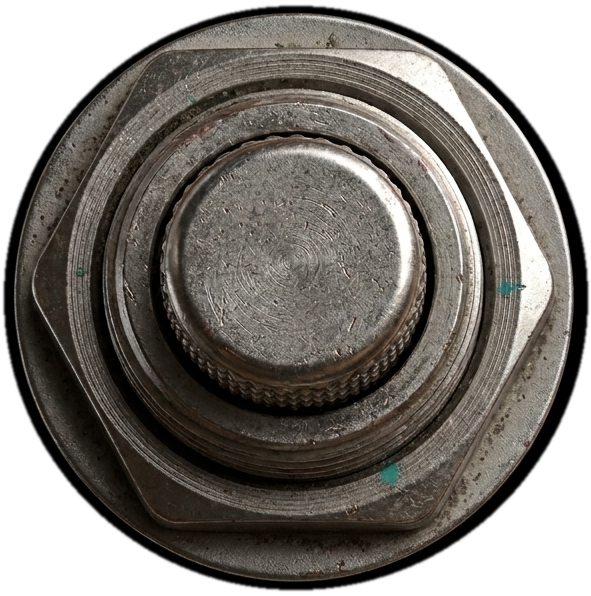
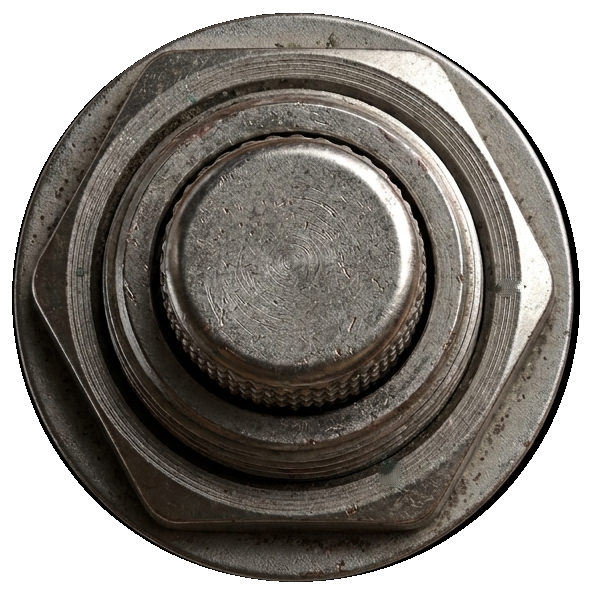
Seat switches and nameplate into the plate for a 3D read
Gate toggle: anchor the PRE/POST frames by the hex nut instead of a
centred blit, so the fixed body no longer hops ~9px when toggled — only
the lever swings. Add a nut-footprint contact shadow.

Footswitch: register the up/down frames by the collar marks (measured,
then painted out of the art) so the base stays pinned and only the cap
travels. Remove the leftover dark matte fringe baked into the metal and
drop the cast shadow entirely — both read as an unrealistic black ring
on the plate; the cap seats on its own bevelled edge.

Logo: replace the tightly-cropped nameplate with the full plaque
including its chrome rim (background keyed out), and size the layout box
to its true aspect so the raised metal edge shows.

diff --git a/source/ui/PedalFaceplatePaint.cpp b/source/ui/PedalFaceplatePaint.cpp
@@ -41,6 +41,17 @@ const PedalArtwork& artwork()
 const auto kInk = juce::Colour (0xff161413);
 const auto kOrange = juce::Colour (0xffe66c0b);
 
+// Registration marks (teal dots, since painted out of the art) sat on the
+// footswitch's fixed collar. Measured centroids in source-image pixels...
+const juce::Point<float> kFootUpDotA   { 397.2f, 473.9f };
+const juce::Point<float> kFootUpDotB   { 512.6f, 288.5f };
+const juce::Point<float> kFootDownDotA { 389.9f, 474.1f };
+const juce::Point<float> kFootDownDotB { 508.0f, 287.1f };
+// ...both aligned onto these fixed plate targets (editor coords), so the collar
+// is pinned and only the cap moves between raised and stomped.
+const juce::Point<float> kFootTargetA  { 234.4f, 660.9f };
+const juce::Point<float> kFootTargetB  { 262.4f, 616.0f };
+
 void drawImage (juce::Graphics& g, const juce::Image& image, juce::Rectangle<float> bounds,
                 juce::RectanglePlacement placement = juce::RectanglePlacement::centred)
 {
@@ -51,6 +62,50 @@ void drawImage (juce::Graphics& g, const juce::Image& image, juce::Rectangle<flo
     g.setOpacity (1.0f);
     g.setImageResamplingQuality (juce::Graphics::highResamplingQuality);
     g.drawImage (image, bounds, placement, false);
+}
+
+// Some parts are photographed in two states whose frames differ in size (a toggle
+// lever swings past the edge, so PRE and POST crop to different heights). A plain
+// centred blit then lands the fixed body in a different spot each state and the
+// part appears to hop. Instead, register both frames by a landmark on the *fixed*
+// body — the hex nut — so it stays pinned and only the moving part travels.
+// nutNorm is the nut centre as a fraction of the frame; nutWidthPx is its pixel
+// width, so both states share one on-screen scale.
+void drawNutAnchoredImage (juce::Graphics& g, const juce::Image& image,
+                           float nutNormX, float nutNormY, float nutWidthPx,
+                           juce::Point<float> targetNutCentre, float targetNutWidth)
+{
+    if (! image.isValid())
+        return;
+
+    const auto scale = targetNutWidth / nutWidthPx;
+    const auto w = static_cast<float> (image.getWidth())  * scale;
+    const auto h = static_cast<float> (image.getHeight()) * scale;
+    const juce::Rectangle<float> dest (targetNutCentre.x - nutNormX * w,
+                                       targetNutCentre.y - nutNormY * h,
+                                       w, h);
+
+    g.setOpacity (1.0f);
+    g.setImageResamplingQuality (juce::Graphics::highResamplingQuality);
+    g.drawImage (image, dest, juce::RectanglePlacement::stretchToFit, false);
+}
+
+// Two-point similarity registration: map a pair of landmarks (in source-image
+// pixels) onto fixed plate targets, correcting for the small translation, scale,
+// and rotation drift between two frames photographed apart. Used for the
+// footswitch, whose up/down shots were misaligned a few pixels at the collar.
+juce::AffineTransform registerByTwoPoints (juce::Point<float> s1, juce::Point<float> s2,
+                                           juce::Point<float> t1, juce::Point<float> t2)
+{
+    const auto s = s2 - s1;
+    const auto t = t2 - t1;
+    const auto scale = t.getDistanceFromOrigin() / s.getDistanceFromOrigin();
+    const auto angle = std::atan2 (t.y, t.x) - std::atan2 (s.y, s.x);
+
+    return juce::AffineTransform::translation (-s1.x, -s1.y)
+        .scaled (scale)
+        .rotated (angle)
+        .translated (t1.x, t1.y);
 }
 
 // The scene photograph keeps the pedal small inside a moody workbench shot. Crop the
@@ -208,40 +263,15 @@ void drawContactShadows (juce::Graphics& g)
     addRoundedShadow (g, kClipLens.toFloat().reduced (2.0f), 8.0f, 0.32f, 4, { 1, 3 });
     addRoundedShadow (g, kDarkButton.toFloat().reduced (5.0f), 16.0f, 0.36f, 8, lightOffset);
 
-    // The toggle's weight sits in its hex nut, low in the switch rect.
+    // The toggle's weight sits in its hex nut. Ground it with a contact shadow the
+    // size of the nut footprint, centred on the fixed nut position (see the
+    // nut-anchored draw) so the switch reads as seated in the plate, not floating.
     addEllipseShadow (g,
-                      { kGateSwitch.toFloat().getCentreX() - 25.0f,
-                        kGateSwitch.toFloat().getY() + 24.0f, 50.0f, 36.0f },
-                      0.34f, 7, lightOffset);
+                      { kGateSwitch.toFloat().getCentreX() - 26.0f, 470.0f - 22.0f,
+                        52.0f, 48.0f },
+                      0.38f, 8, lightOffset);
 
     // Footswitch shadow is dynamic (it tightens when stomped) — drawn per frame.
-}
-
-constexpr int kFootShadowMargin = 28;
-
-// Pre-render both footswitch shadows: raised (tall, soft) and stomped (tight,
-// hugging the plate). The per-frame paint just swaps the blit.
-const juce::Image& footShadowImage (bool pressed)
-{
-    static const auto render = [] (float alpha, int radius, juce::Point<int> offset)
-    {
-        constexpr int margin = kFootShadowMargin;
-        const auto foot = facelayout::kFootswitch;
-        juce::Image image (juce::Image::ARGB,
-                           foot.getWidth() + margin * 2, foot.getHeight() + margin * 2, true);
-        juce::Graphics g (image);
-        addEllipseShadow (g,
-                          juce::Rectangle<float> (static_cast<float> (margin), static_cast<float> (margin),
-                                                  static_cast<float> (foot.getWidth()),
-                                                  static_cast<float> (foot.getHeight()))
-                              .reduced (8.0f),
-                          alpha, radius, offset);
-        return image;
-    };
-
-    static const juce::Image raised = render (0.44f, 12, { 3, 8 });
-    static const juce::Image stomped = render (0.52f, 6, { 1, 3 });
-    return pressed ? stomped : raised;
 }
 
 constexpr int kDrawerShadowMargin = 26;
@@ -424,16 +454,29 @@ void paintPedalFaceplate (juce::Graphics& g,
         padPressed, padDisplayAmount, sendAmount);
 
     drawImage (g, dark ? art.darkOn : art.darkOff, kDarkButton.toFloat());
-    drawImage (g, postGate ? art.gatePost : art.gatePre, kGateSwitch.toFloat());
 
-    // Stomping seats the switch closer to the plate: its shadow tightens and the
-    // cap drops a couple of pixels.
+    // PRE (lever up) and POST (lever down) are the same switch; their frames differ
+    // in height only because the lever leaves the crop. Anchor by the hex nut —
+    // measured centre and pixel width per frame — so the body stays fixed on the
+    // plate and only the lever swings. (A centred blit used to hop the nut ~9px.)
+    const juce::Point<float> gateNutCentre { kGateSwitch.toFloat().getCentreX(), 470.0f };
+    constexpr float gateNutWidth = 50.0f;
+    if (postGate)
+        drawNutAnchoredImage (g, art.gatePost, 0.500f, 0.389f, 275.0f, gateNutCentre, gateNutWidth);
+    else
+        drawNutAnchoredImage (g, art.gatePre, 0.498f, 0.532f, 271.0f, gateNutCentre, gateNutWidth);
+
+    // No cast shadow under the footswitch: photographed head-on, a chromed stomp
+    // cap seats on its own bevelled edge, and any drawn halo just reads as a ring
+    // painted on the plate. The metal edge alone carries the depth.
+    // Register the up/down frames by the collar marks so the base stays pinned and
+    // only the cap drops when stomped (the down photo already carries that depth).
+    const auto footTf = footPressed
+        ? registerByTwoPoints (kFootDownDotA, kFootDownDotB, kFootTargetA, kFootTargetB)
+        : registerByTwoPoints (kFootUpDotA, kFootUpDotB, kFootTargetA, kFootTargetB);
     g.setOpacity (1.0f);
-    g.drawImageAt (footShadowImage (footPressed),
-                   kFootswitch.getX() - kFootShadowMargin,
-                   kFootswitch.getY() - kFootShadowMargin);
-    drawImage (g, footPressed ? art.footDown : art.footUp,
-               kFootswitch.toFloat().translated (0.0f, footPressed ? 2.0f : 0.0f));
+    g.setImageResamplingQuality (juce::Graphics::highResamplingQuality);
+    g.drawImageTransformed (footPressed ? art.footDown : art.footUp, footTf, false);
 
     drawGateMarkings (g, postGate);
     drawEngravedText (g, "CLIP", kClipLabel, 10.0f, kInk.withAlpha (0.94f));

diff --git a/source/ui/PedalFaceplatePaint.h b/source/ui/PedalFaceplatePaint.h
@@ -20,7 +20,8 @@ namespace facelayout
     inline const juce::Rectangle<float> kPlate { 38.0f, 60.0f, 345.0f, 642.0f };
     constexpr float kPlateCornerRadius = 19.0f;
 
-    inline const juce::Rectangle<int> kLogo { 95, 74, 230, 46 };
+    // Full nameplate incl. its chrome rim (aspect ~4.8:1); sits between the top screws.
+    inline const juce::Rectangle<int> kLogo { 85, 70, 250, 52 };
 
     inline const juce::Rectangle<int> kPresetField { 54, 134, 232, 32 };
     inline const juce::Rectangle<int> kPresetText { 70, 134, 186, 32 };